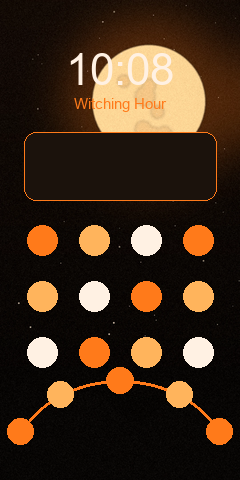
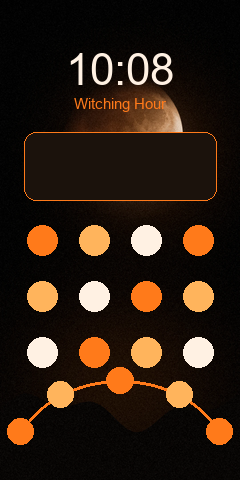
Give Witching Hour a total lunar eclipse
The owner picked NASA/Joel Kowsky's photograph of the November 2022
total lunar eclipse (NASA Image and Video Library, public domain) over
the painted moon. It is a photo wash in the theme's own ember colours,
with the rolling hills the painted moon had.

The wallpaper engine gains two things for it: "place", which sets a
single bright subject such as the Moon small on a dark, phone-shaped
sky, finding it by brightness and feathering the photo's own sky away so
no edge shows; and "silhouette", which lays the painted hills over a
photo before the grain. The photo is in PHOTOS with its credit, and the
description now speaks of the eclipsed moon. The old painted
wallpaper.png stays published so links made before still work. No other
theme's files change.

Changed region(s): [[0.175, 0.0, 1.0, 0.3438], [0.5542, 0.7812, 0.5833, 0.8125]]

diff --git a/t/witching_hour/index.html b/t/witching_hour/index.html
@@ -4,12 +4,12 @@
 <meta charset="UTF-8" />
 <meta name="viewport" content="width=device-width, initial-scale=1.0" />
 <title>Witching Hour &mdash; a theme for Orbital Launcher</title>
-<meta name="description" content="Midnight black and ember orange under a great full moon.">
+<meta name="description" content="Midnight black and ember orange under a copper-red eclipsed moon.">
 <meta name="theme-color" content="#07090e">
 <link rel="canonical" href="https://orbitallauncher.com/t/witching_hour">
 <meta property="og:type" content="website">
 <meta property="og:title" content="Witching Hour, a theme for Orbital Launcher">
-<meta property="og:description" content="Midnight black and ember orange under a great full moon.">
+<meta property="og:description" content="Midnight black and ember orange under a copper-red eclipsed moon.">
 <meta property="og:url" content="https://orbitallauncher.com/t/witching_hour">
 <meta property="og:image" content="https://orbitallauncher.com/themes/witching_hour/preview.png">
 <meta name="twitter:card" content="summary">
@@ -43,9 +43,10 @@
     <div>
       <p class="eyebrow">A theme for Orbital Launcher &middot; Orbital Premium</p>
       <h1>Witching Hour</h1>
-      <p class="lede">Midnight black and ember orange under a great full moon.</p>
+      <p class="lede">Midnight black and ember orange under a copper-red eclipsed moon.</p>
       <ul class="share-tags"><li>spooky</li><li>dark</li><li>orange</li><li>black</li><li>one-handed</li><li>halloween</li><li>space</li></ul>
       <p class="season-note" data-season-from="10-01" data-season-until="11-01">A seasonal theme. Available Oct 1–Nov 1.</p>
+      <p class="credit">Wallpaper photo: <a href="https://images.nasa.gov/details/NHQ202211080005" rel="noopener">Total Lunar Eclipse</a> by NASA/Joel Kowsky, NASA Image and Video Library (Public domain).</p>
       <div class="share-actions">
         <a class="btn" data-open-app href="https://play.google.com/store/apps/details?id=com.alid0n.orbital">Get it in Orbital</a>
         <a class="btn ghost" data-play href="https://play.google.com/store/apps/details?id=com.alid0n.orbital">Get Orbital on Google Play</a>

diff --git a/tools/wallpaper_engine.py b/tools/wallpaper_engine.py
@@ -12,6 +12,7 @@ A picture is built in layers, every one of them optional:
            (or light) enough for the dock;
   texture  a faint paper or linen surface;
   vignette a gentle darkening towards the corners;
+  silhouette a flat dark shape along the foot, such as hills under a moon;
   grain    monochrome film grain, which also breaks up the banding a smooth gradient shows on an OLED.
 
 Everything is seeded by the theme, so the same picture comes out on every run, and saved as WebP at
@@ -21,7 +22,7 @@ import hashlib
 import os
 
 import numpy as np
-from PIL import Image, ImageFilter, ImageOps
+from PIL import Image, ImageDraw, ImageFilter, ImageOps
 
 W, H = 1080, 2400
 MAX_BYTES = 400_000
@@ -131,12 +132,35 @@ def mesh(points, rng, warp=0.06, softness=1.0):
     return np.stack([resize_field(lab[..., k], W, H) for k in range(3)], axis=-1)
 
 
+def place(img, scale, center, threshold=0.12, feather=(1.3, 0.3)):
+    """A zoom out for a single bright subject on a dark sky, such as the Moon: [img] set on a black
+    canvas of the phone's shape, its width [scale] times the canvas's, with the subject's middle at
+    [center] (fractions of the canvas). The subject is found as the pixels brighter than
+    [threshold] of the brightest (its middle the median of them, its radius that of a disc of the
+    same area), and the photo is faded out from feather[0] radii over feather[1] more, so its own sky
+    meets the canvas without an edge."""
+    a = np.asarray(img.convert("L"), np.float32)
+    ys, xs = np.nonzero(a > threshold * a.max())
+    mx, my = np.median(xs), np.median(ys)
+    r = (len(xs) / np.pi) ** 0.5
+    yy, xx = np.mgrid[0:img.height, 0:img.width]
+    d = np.sqrt((xx - mx) ** 2 + (yy - my) ** 2)
+    outer, fade = feather
+    mask = Image.fromarray((np.clip((r * outer - d) / (r * fade), 0, 1) * 255).astype(np.uint8), "L")
+    canvas_w = int(img.width / scale)
+    canvas = Image.new("RGB", (canvas_w, int(canvas_w * H / W)), (0, 0, 0))
+    canvas.paste(img, (int(center[0] * canvas.width - mx), int(center[1] * canvas.height - my)), mask)
+    return canvas
+
+
 def photo(spec, source_dir):
     """The photograph [spec] names, cropped to the phone around its focus point and softened, then
     mapped onto the palette (spec["map"]: dark-to-light stops) by spec["mapAmount"]."""
     path = os.path.join(source_dir, spec["file"])
     with Image.open(path) as raw:
         img = ImageOps.exif_transpose(raw).convert("RGB")
+    if spec.get("place"):
+        img = place(img, **spec["place"])
     w, h = img.size
     aspect = W / H
     zoom = spec.get("zoom", 1.0)
@@ -213,6 +237,21 @@ def texture(img, kind, amount, rng):
     return img * (1 + amount * np.clip(field, -3, 3))[..., None]
 
 
+def silhouette(img, shape, colour):
+    """A flat dark shape across the foot of the screen, laid over a photo or a gradient before the
+    grain, so it carries the same grain. "hills": the rolling hills the generator's painted moon has
+    (its paint_moon), drawn at full size."""
+    if shape != "hills":
+        raise ValueError(shape)
+    layer = Image.new("L", (W, H), 0)
+    s = W / 720.0
+    ImageDraw.Draw(layer).polygon(
+        [(0, H * 0.84)] + [(x, H * 0.82 - 40 * s * np.sin(x / (90.0 * s)) - 25 * s * np.sin(x / (37.0 * s)))
+                           for x in range(0, W + 1, 8)] + [(W, H), (0, H)], fill=255)
+    a = (np.asarray(layer, np.float32) / 255.0)[..., None]
+    return img * (1 - a) + hex_rgb(colour) * a
+
+
 def grain(img, amount, rng):
     """Monochrome film grain; [amount] is the grain layer's strength (0.03 to 0.05 suits most)."""
     noise = rng.standard_normal((H, W)).astype(np.float32)
@@ -245,6 +284,8 @@ def render(spec, theme_id, source_dir=None, base_image=None):
         img = texture(img, spec["texture"], spec.get("textureAmount", 0.03), rng)
     if spec.get("vignette"):
         img = vignette(img, spec["vignette"])
+    if spec.get("silhouette"):
+        img = silhouette(img, **spec["silhouette"])
     img = grain(img, spec.get("grain", 0.04), rng)
     return Image.fromarray(np.clip(np.rint(img * 255), 0, 255).astype(np.uint8), "RGB")
 

diff --git a/tools/make_catalog.py b/tools/make_catalog.py
@@ -90,6 +90,10 @@ PHOTOS = {
         title="Shinjuku - Shinjuku258", author="lumoplank",
         source="Wikimedia Commons", license="CC0 1.0",
         url="https://commons.wikimedia.org/wiki/File:Shinjuku_-_Shinjuku258.jpg", retrieved="2026-10-03"),
+    "nasa-NHQ202211080005.jpg": dict(
+        title="Total Lunar Eclipse", author="NASA/Joel Kowsky",
+        source="NASA Image and Video Library", license="Public domain",
+        url="https://images.nasa.gov/details/NHQ202211080005", retrieved="2026-10-03"),
     "commons-alaska-aurora-borealis.jpg": dict(
         title="Alaska Aurora Borealis", author="Justin Connaher, U.S. Air Force",
         source="Wikimedia Commons", license="Public domain",
@@ -270,10 +274,18 @@ THEMES = [
                font="cinzel", clockFace="ANALOGUE", panelLook="FADE", notch="TAPER", glow=True),
           premium=True, effect="bats", season="halloween", tap=True),
     theme("witching_hour", "Witching Hour",
-          "Midnight black and ember orange under a great full moon.",
+          "Midnight black and ember orange under a copper-red eclipsed moon.",
           ["audience:general", "vibe:spooky", "vibe:dark", "color:orange", "color:black"],
           pal("#FF7A1A", "#FFB45C", "#FFF1E3", "#B39A86", "#060403", "#0C0806", "#1B120C", "#55000000"),
-          picture("moon", vignette=0.2, grain=0.04),
+          # A total lunar eclipse, set small and high on a midnight sky in the theme's ember colours,
+          # over the rolling hills the painted moon had. (Its old painted wallpaper.png stays
+          # published, unused, for links made before.)
+          rendered(photo=dict(file="nasa-NHQ202211080005.jpg", place=dict(scale=1.6, center=(0.55, 0.33)),
+                              blur=0.6, saturation=0.9,
+                              map=[(0.0, "#050302"), (0.4, "#24120A"), (0.78, "#E0954E"), (1.0, "#FFE9C8")], mapAmount=0.4),
+                   blobs=[(0.6, 0.33, 0.22, "#FF7A1A", 0.18), (0.5, 0.8, 0.3, "#FF7A1A", 0.14)],
+                   wash=[(0.0, "#050302", 0.0), (0.7, "#050302", 0.0), (1.0, "#050302", 0.6)],
+                   vignette=0.25, silhouette=dict(shape="hills", colour="#080503"), grain=0.04),
           dict(corner="ROUNDED", iconShape="SQUIRCLE", iconStyle="ORIGINAL", widgetLook="GLASS",
                widgetCorner="ROUNDED", widgetEdge="HAIR", widgetTint=0.25, widgetSolid=0.5,
                font="marcellus", clockFace="STACK", uppercase=True, panelLook="FADE", notch="DOT", glow=True),
